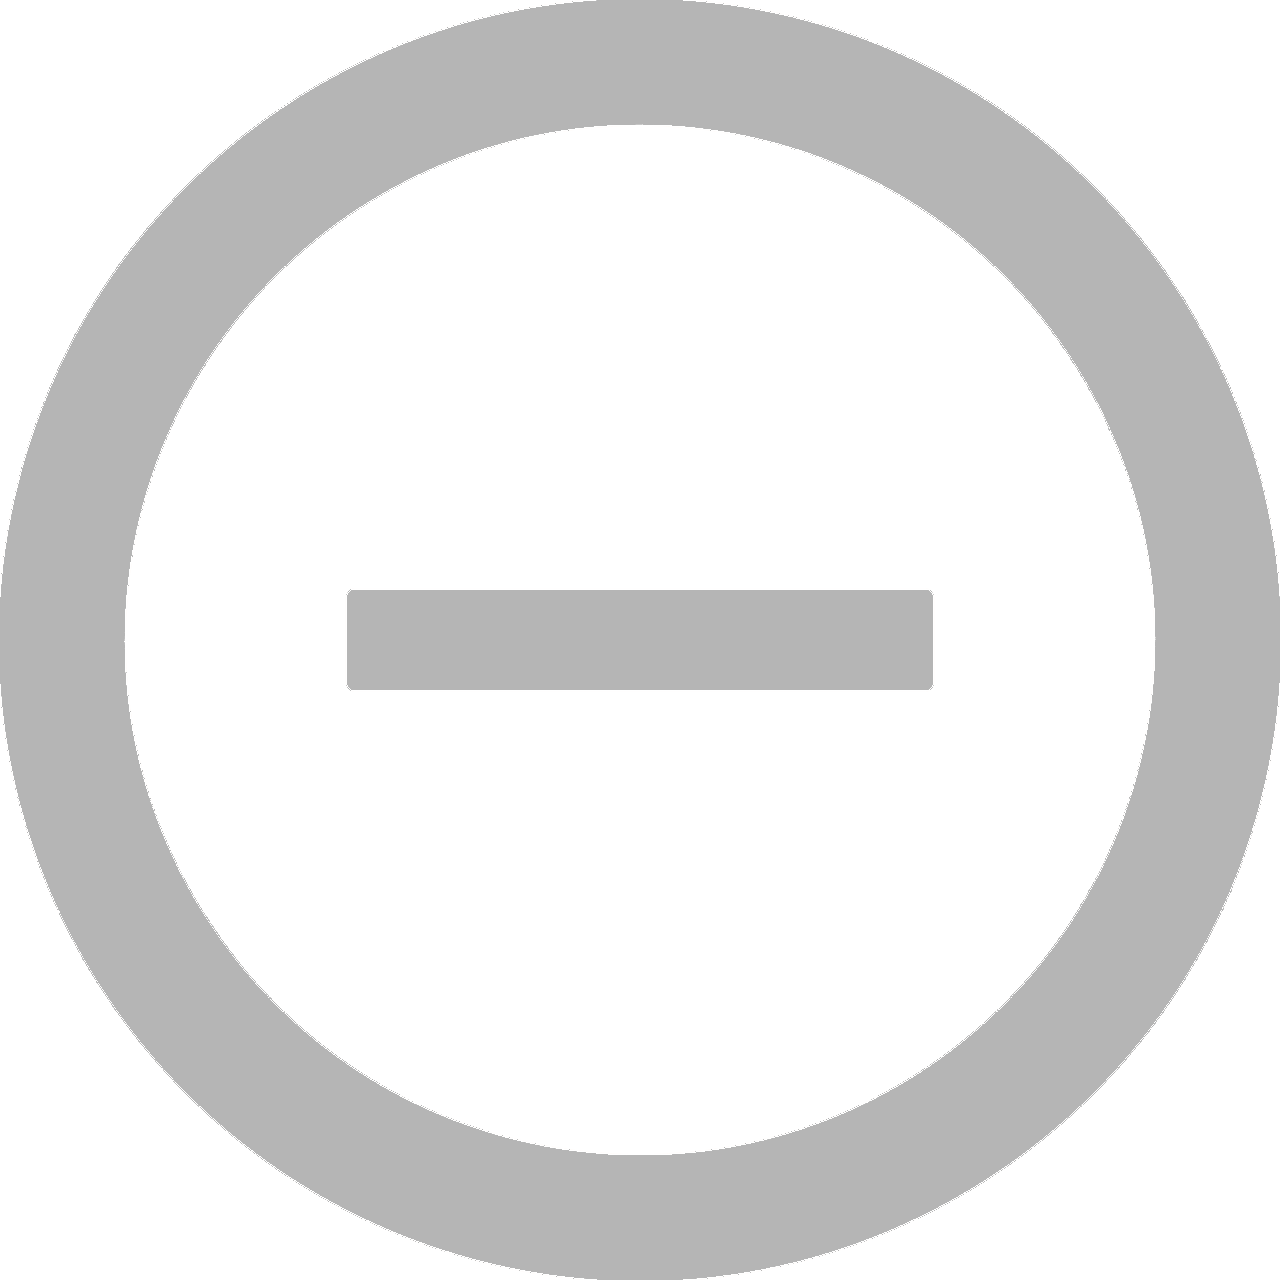
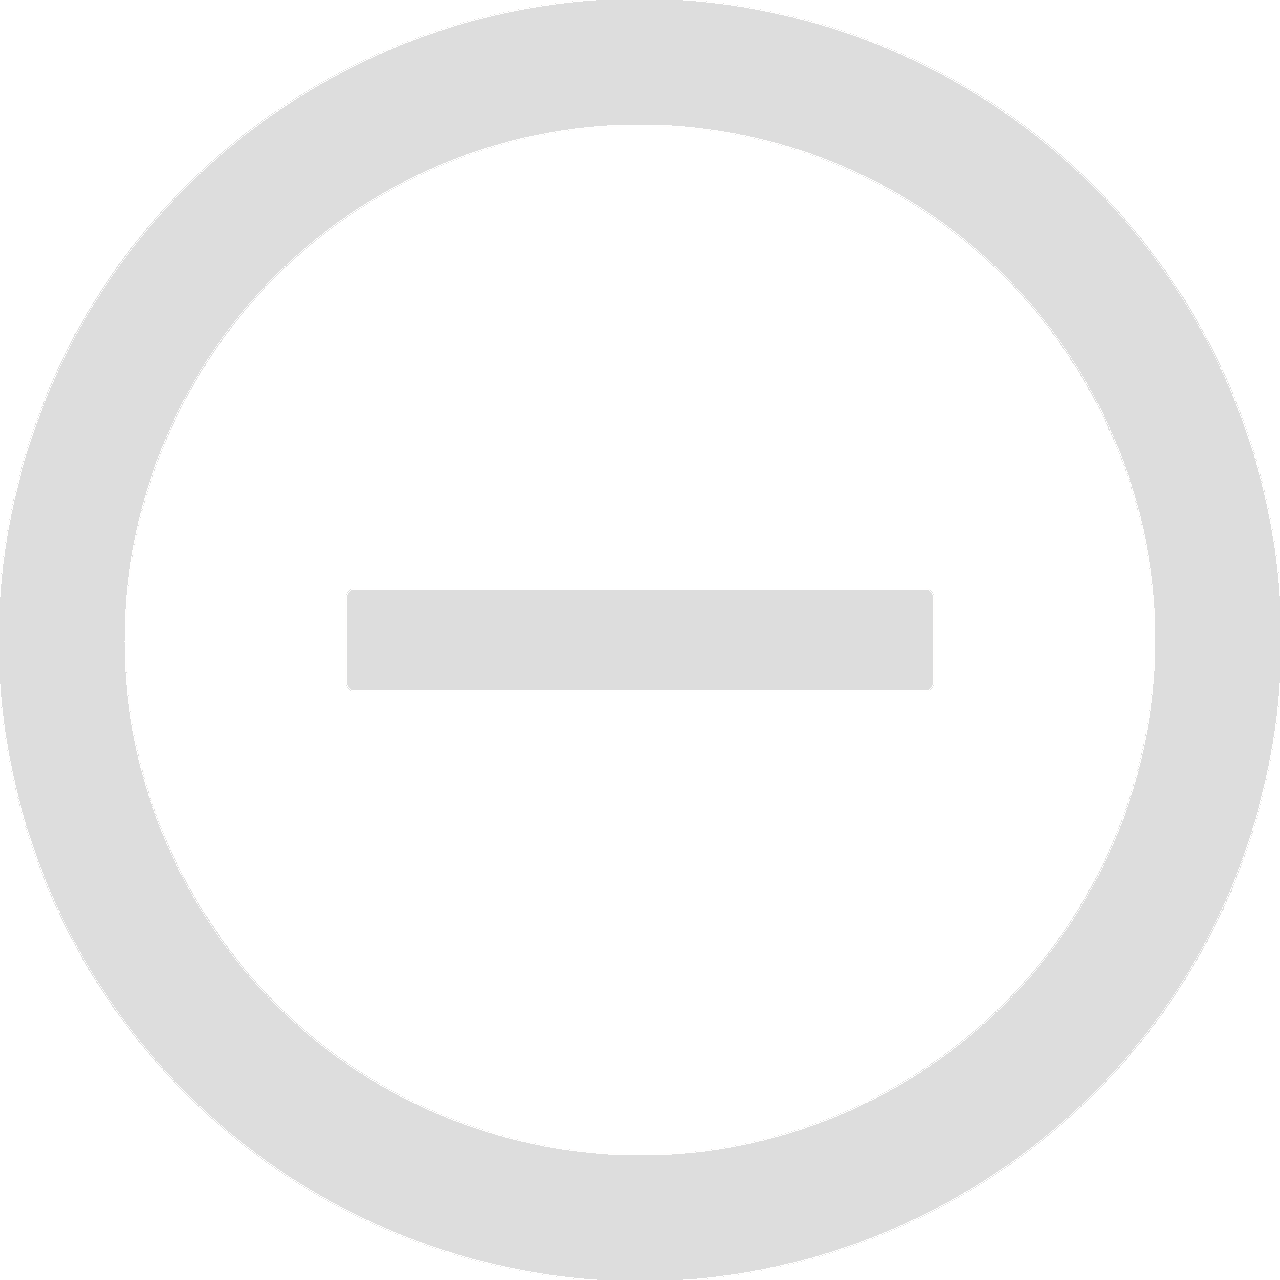
Added sound display FXML

diff --git a/src/view/stylesheet.css b/src/view/stylesheet.css
@@ -277,3 +277,7 @@ HOME SCREEN AND SUCH
  -fx-background-insets : 2.0, 0.0, 0.0;
  -fx-background-radius : 2.0em;
 }
+
+#properties {
+ -fx-opacity: .60;
+}
